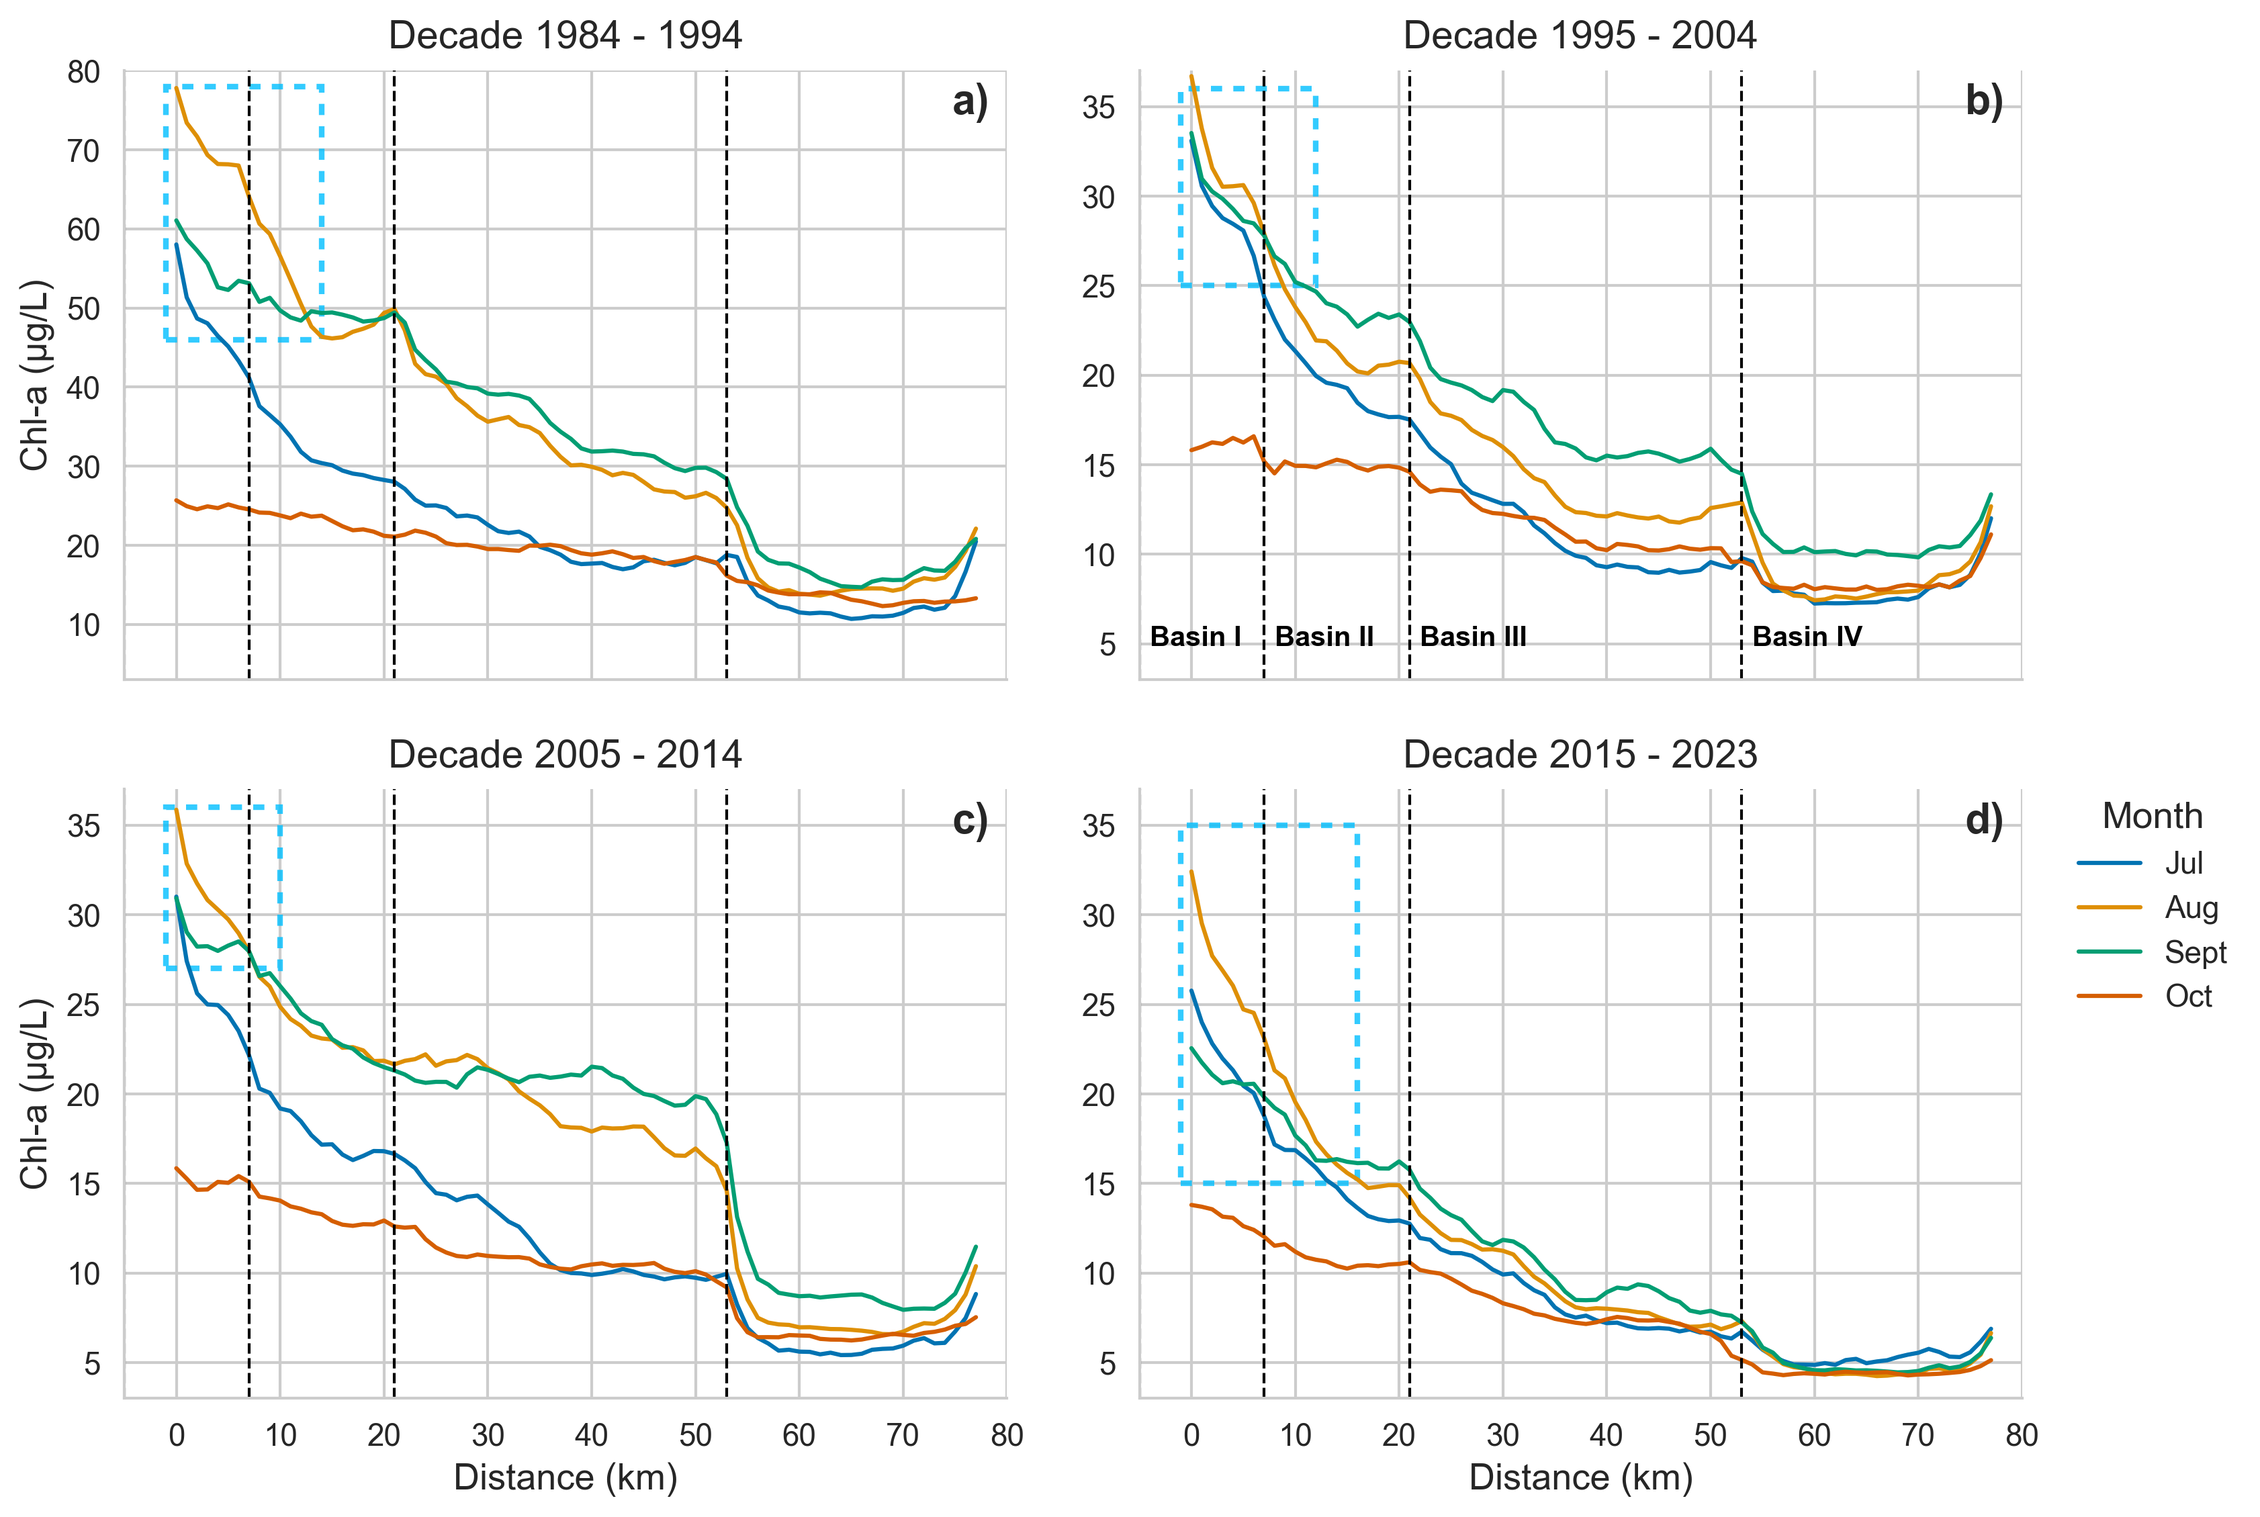
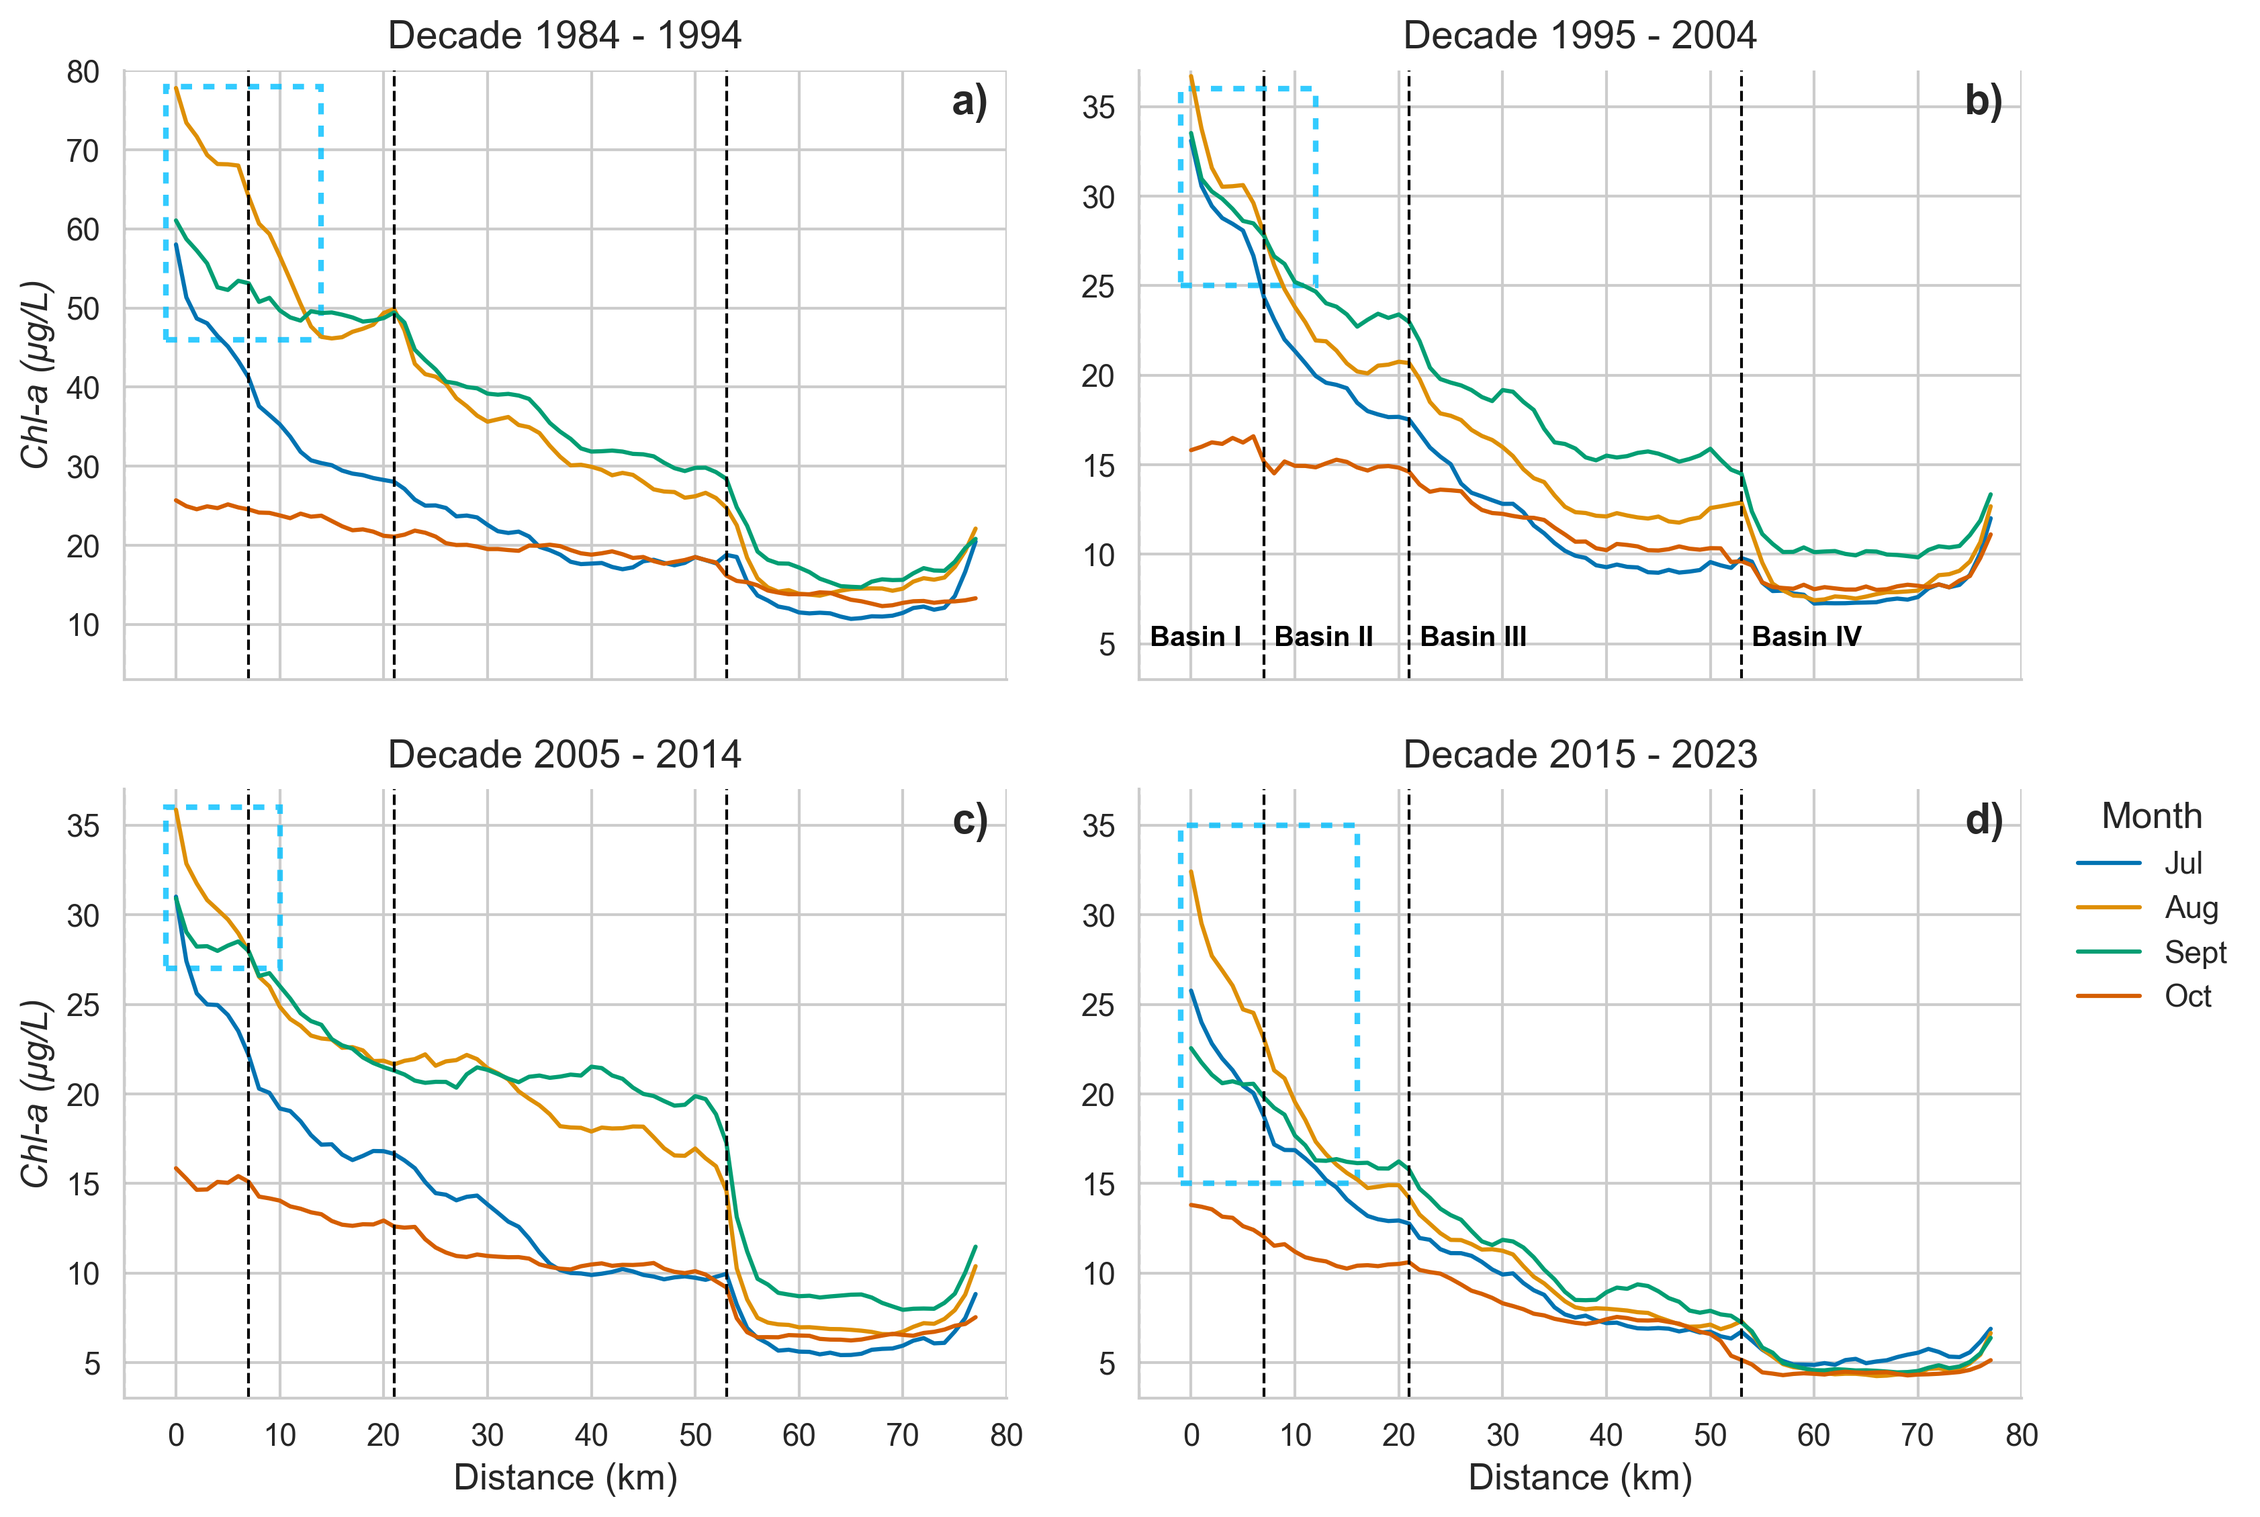
Enhance README.md and scripts: add new single month fitting script, improve figure quality, and refine plotting aesthetics
- Introduce MonthlyCenterlineFitting_singleMonth_Fig5.py for single curve fitting analysis
- Update figure generation settings for higher resolution outputs
- Refine plotting aesthetics in MonthlyCenterlineComparison_Fig3.py and MonthlyCenterlineFitting_FigS4_Fig5.py for better clarity and presentation
- Document new features and improvements in README.md

diff --git a/src/MonthlyCenterlineFitting_singleMonth_Fig5.py b/src/MonthlyCenterlineFitting_singleMonth_Fig5.py
@@ -1,0 +1,179 @@
+"""
+Monthly Centerline Fitting Analysis - Single Plot
+================================================
+
+This script generates a single plot showing curve fitting analysis for chlorophyll-a
+concentration along the centerline of Lake Balaton for a specific decade and month.
+This is used for Figure 5 left subplot in the manuscript.
+
+"""
+
+import pandas as pd
+import matplotlib.pyplot as plt
+import seaborn as sns
+import numpy as np
+from numpy.polynomial.polynomial import Polynomial
+from scipy.optimize import curve_fit
+from sklearn.metrics import r2_score, mean_squared_error
+import os
+
+# Use relative path for data directory
+filePath = os.path.join(os.path.dirname(__file__), "..", "data")
+figuresPath = os.path.join(os.path.dirname(__file__), "..", "figures")
+
+# Create figures directory if it doesn't exist
+os.makedirs(figuresPath, exist_ok=True)
+
+# Read the data
+data = pd.read_csv(os.path.join(filePath, 'Centerline_4decades.csv'))
+
+# ============================================== CONFIGURATION ==============================================
+plt.rcParams['savefig.dpi'] = 300
+
+# Set global font properties for Nature style
+plt.rcParams['font.family'] = 'serif'
+plt.rcParams['font.serif'] = ['Times New Roman']
+plt.rcParams['font.size'] = 18
+plt.rcParams['axes.titlesize'] = 20
+plt.rcParams['axes.labelsize'] = 14
+plt.rcParams['xtick.labelsize'] = 14
+plt.rcParams['ytick.labelsize'] = 14
+plt.rcParams['legend.fontsize'] = 8
+plt.rcParams['axes.linewidth'] = 0.5
+
+# ============================================== DATA PROCESSING ==============================================
+def format_param(value, index=1):
+    """Format parameters with proper sign handling for equations."""
+    if index == 0:
+        return f"{value:.2f}"
+    return f"{value:.2f}" if value < 0 else f"+{value:.2f}"
+
+# Convert 'date' column to datetime and extract year and month for grouping
+data['date'] = pd.to_datetime(data['date'])
+data['year_month'] = data['date'].dt.to_period('M')
+data['year'] = data['date'].dt.year
+data['month'] = data['date'].dt.month
+data = data[data['distance'] <= 52]
+
+# ============================================== FITTING FUNCTIONS ==============================================
+def linear_func(x, a, b):
+    """Linear function: y = ax + b"""
+    return a * x + b
+
+def exponential_func(x, a, b, c):
+    """Exponential function: y = a*exp(-b*x) + c"""
+    return a * np.exp(-b * x) + c
+
+def power_func(x, a, b, c):
+    """Power function: y = a*(x + c)^b"""
+    return a * np.power(x + c, b)
+
+def logarithmic_func(x, a, b):
+    """Logarithmic function: y = a*ln(x+1) + b"""
+    return a * np.log(x + 1) + b
+
+# ============================================== MAIN ANALYSIS ==============================================
+def main():
+    """Main analysis function for single curve fitting plot."""
+    # Define the decade and month for analysis
+    decade_start = 2015  # 2015-2023 decade
+    month = 7  # July
+    
+    # Filter data for the specified decade and month
+    filtered_data = data[(data['year'] >= decade_start) & (data['month'] == month)]
+    
+    x = filtered_data['distance'] + 1
+    y = filtered_data['pelagic']
+    
+    return x, y, decade_start, month
+
+# ============================================== PLOTTING ==============================================
+def create_single_fitting_plot(x, y, decade_start, month):
+    """Create single curve fitting plot."""
+    # Define fitting functions
+    functions = {
+        'Lin': linear_func,
+        'Log': logarithmic_func,  
+        'Poly': None,  # Placeholder for polynomial, handled separately
+        'Exp': exponential_func,
+    }
+    
+    # Define colors for different fits
+    colors = ['#4C72B0', '#55A868', '#B8860B', '#B44E9E'] 
+    
+    # Create the plot
+    plt.figure(figsize=(6, 4))
+    sns.scatterplot(x=x, y=y, color='black', s=30, label='Data Points')
+    
+    annotations = []
+    
+    for i, (label, func) in enumerate(functions.items()):
+        x_vals, y_vals = x, y
+        
+        try:
+            if label == 'Poly':
+                # Polynomial fit separately
+                coeffs = np.polyfit(x, y, 2)
+                xp = np.linspace(x_vals.min(), x_vals.max(), 100)
+                plt.plot(xp, np.polyval(coeffs, xp), color=colors[i], lw=3, label=f'Polynomial Fit (Degree 2)')
+                y_fit = np.polyval(coeffs, x)
+                r2 = r2_score(y, y_fit)
+                rmse = np.sqrt(mean_squared_error(y, y_fit))
+                polynomial_equation = f"${format_param(coeffs[0],0)}x^2 {format_param(coeffs[1])}x {format_param(coeffs[2])}$"
+                annotations.append(f"Poly: {polynomial_equation}, $R^2$={r2:.2f}, RMSE={rmse:.2f}")
+                continue
+            else:
+                initial_params = [0, np.mean(y_vals)]
+            
+            params, _ = curve_fit(func, x_vals, y_vals)
+            xp = np.linspace(x_vals.min(), x_vals.max(), 100)
+            yp = func(xp, *params)
+            plt.plot(xp, yp, color=colors[i], lw=3, label=f'{label} Fit')
+            
+            # Calculate R-squared and RMSE
+            y_fit = func(x_vals, *params)
+            r2 = r2_score(y_vals, y_fit)
+            rmse = np.sqrt(mean_squared_error(y_vals, y_fit))
+            
+            # Format equations with LaTeX and sign handling
+            if label == 'Lin':
+                equation = f"${format_param(params[0],0)}x {format_param(params[1])}$"
+            elif label == 'Power':
+                equation = f"${format_param(params[0],0)}(x {format_param(params[2])})^{{{params[1]:.2f}}}$"
+            elif label == 'Log':
+                equation = f"${format_param(params[0],0)}\\ln(x+1) {format_param(params[1])}$"
+            elif label == 'Exp':
+                equation = f"${format_param(params[0],0)}e^{{{-params[1]:.2f}x}} {format_param(params[2])}$"
+            
+            annotations.append(f"{label}: {equation}, $R^2$={r2:.2f}, RMSE={rmse:.2f}")
+            
+        except RuntimeError as e:
+            print(f"{label} fit failed: {e}")
+    
+    # Annotate equations and metrics on the plot
+    for k, text in enumerate(annotations):
+        plt.text(0.1, 0.97 - k * 0.06, text, transform=plt.gca().transAxes, fontsize=13, 
+                        color=colors[k], ha='left', va='top', fontweight='bold') 
+    
+    # Set labels and title
+    plt.xlabel('Distance to West (km)')
+    plt.ylabel('Chl-a (μg/L)', style='italic')
+    plt.title(f'Fitted July Chl-a for the Decade {decade_start}-2023')
+    plt.legend(loc='lower left', ncol=1, fontsize=12, frameon=False)
+    plt.grid(True, linewidth=1.0, alpha=0.7)
+    
+    plt.tight_layout()
+    
+    # Save the figure
+    figure_path = os.path.join(figuresPath, 'MonthlyCenterlineFitting_Fig5_left.png')
+    plt.savefig(figure_path, dpi=300, bbox_inches='tight', facecolor='white')
+    print(f"Figure saved to: {figure_path}")
+    plt.show()
+
+# ============================================== EXECUTION ==============================================
+if __name__ == "__main__":
+    # Run main analysis
+    x, y, decade_start, month = main()
+    
+    # Create single fitting plot
+    create_single_fitting_plot(x, y, decade_start, month)

diff --git a/src/MonthlyCenterlineFitting_FigS4_Fig5.py b/src/MonthlyCenterlineFitting_FigS4_Fig5.py
@@ -9,6 +9,8 @@ from sklearn.metrics import r2_score, mean_squared_error
 from scipy import stats
 import os
 
+plt.rcParams['savefig.dpi'] = 300
+
 # Use relative path for data directory
 filePath = os.path.join(os.path.dirname(__file__), "..", "data")
 figuresPath = os.path.join(os.path.dirname(__file__), "..", "figures")
@@ -198,7 +200,7 @@ for i, decade in enumerate(decades):
         axes[i, j].tick_params(axis='both', labelsize=12)  
 
 # Shrink the gaps between columns
-plt.subplots_adjust(wspace=0.1, hspace=0.15)
+plt.subplots_adjust(wspace=0, hspace=0.15)
 
 # Save the fitting analysis figure
 plt.savefig(os.path.join(figuresPath, 'MonthlyCenterlineFitting_FigS4.png'), 
@@ -251,9 +253,14 @@ rmse_df = pd.DataFrame(dict([(k, pd.Series(v)) for k, v in rmse_data.items()]))
 fig, (ax1, ax2) = plt.subplots(1, 2, figsize=(8, 5))
 
 # R-squared boxplot
-sns.boxplot(data=r2_df, ax=ax1, palette="Set2")
-ax1.set_title('R²', fontsize=12)
-ax1.grid(True)
+sns.boxplot(data=r2_df, ax=ax1, palette="Set2", linewidth=2)
+ax1.set_title('R²', fontsize=14, fontweight='bold')
+ax1.grid(True, linewidth=1.5)
+ax1.tick_params(axis='both', which='major', length=6, width=2, labelsize=12)
+ax1.spines['bottom'].set_linewidth(2)
+ax1.spines['left'].set_linewidth(2)
+ax1.spines['top'].set_linewidth(2)
+ax1.spines['right'].set_linewidth(2)
 # Add significance asterisks for R² over the upper whisker
 for i in range(len(r2_df.columns)):
     q1 = r2_df.iloc[:, i].quantile(0.25)
@@ -265,12 +272,17 @@ for i in range(len(r2_df.columns)):
     non_outliers = r2_df.iloc[:, i][r2_df.iloc[:, i] <= upper_whisker]
     max_non_outlier = non_outliers.max()
     
-    ax1.text(i, max_non_outlier-0.003, '***', ha='center', va='bottom', fontsize=12)
+    ax1.text(i, max_non_outlier-0.003, '***', ha='center', va='bottom', fontsize=14, fontweight='bold')
 
 # RMSE boxplot
-sns.boxplot(data=rmse_df, ax=ax2, palette="Set2")
-ax2.set_title('RMSE', fontsize=12)
-ax2.grid(True)
+sns.boxplot(data=rmse_df, ax=ax2, palette="Set2", linewidth=2)
+ax2.set_title('RMSE', fontsize=14, fontweight='bold')
+ax2.grid(True, linewidth=1.5)
+ax2.tick_params(axis='both', which='major', length=6, width=2, labelsize=12)
+ax2.spines['bottom'].set_linewidth(2)
+ax2.spines['left'].set_linewidth(2)
+ax2.spines['top'].set_linewidth(2)
+ax2.spines['right'].set_linewidth(2)
 for i in range(len(rmse_df.columns)):
     q1 = rmse_df.iloc[:, i].quantile(0.25)
     q3 = rmse_df.iloc[:, i].quantile(0.75)
@@ -281,7 +293,7 @@ for i in range(len(rmse_df.columns)):
     non_outliers = rmse_df.iloc[:, i][rmse_df.iloc[:, i] <= upper_whisker]
     max_non_outlier = non_outliers.max()
     
-    ax2.text(i, max_non_outlier-0.05, '***', ha='center', va='bottom', fontsize=12)
+    ax2.text(i, max_non_outlier-0.05, '***', ha='center', va='bottom', fontsize=14, fontweight='bold')
 
 # Adjust layout
 plt.tight_layout()

diff --git a/src/MonthlyCenterlineComparison_Fig3.py b/src/MonthlyCenterlineComparison_Fig3.py
@@ -5,7 +5,7 @@ import seaborn as sns
 from scipy import stats
 import os
 from matplotlib.patches import Rectangle
-
+plt.rcParams['savefig.dpi'] = 300
 # Nature-style: clean, minimalist, colorblind-friendly, with balanced font and line sizes
 sns.set_theme(
     style="whitegrid",
@@ -79,7 +79,7 @@ for idx, (year, ax) in enumerate(zip(years_to_plot, axes)):
     if idx > 1:
         ax.set_xlabel('Distance (km)')
     if idx % 2 == 0:
-        ax.set_ylabel('Chl-a (μg/L)')
+        ax.set_ylabel('Chl-a (μg/L)', fontstyle='italic')
     ax.set_xlim(-5, 80)  # Start x from less than 0
     ax.set_ylim(3, 80 if idx == 0 else 37)
     ax.tick_params(axis='both', which='major', length=5, width=1)

diff --git a/README.md b/README.md
@@ -17,6 +17,7 @@ shallow-water-chla/
 │   ├── MonthlyCenterlineComparison_Fig3.py
 │   ├── SpatioTemporalAsynchrony_Fig4.py
 │   ├── MonthlyCenterlineFitting_FigS4_Fig5.py
+│   ├── MonthlyCenterlineFitting_singleMonth_Fig5.py
 │   ├── SouthNorthPelagicRatio_Fig6.py
 │   └── SouthNorthPelagicComparison_Fig7.py
 ├── figures/                  # Generated figures (PNG format)
@@ -64,6 +65,10 @@ Each script in the `src/` directory generates specific figures for the manuscrip
   - Output: `SpatioTemporalAsynchrony_Fig4.png`
 - **MonthlyCenterlineFitting_FigS4_Fig5.py**: Performs curve fitting analysis (Figure 5) and creates boxplots (Figure S4)
   - Output: `MonthlyCenterlineFitting_Fig5.png` and `MonthlyCenterlineFitting_FigS4.png`
+- **MonthlyCenterlineFitting_singleMonth_Fig5.py**: Generates single curve fitting plot for Figure 5 left subplot
+  - **Features**: Modular design with multiple regression models (Linear, Logarithmic, Polynomial, Exponential)
+  - **Methods**: Curve fitting analysis for July 2015-2023 data with R² and RMSE calculations
+  - **Output**: `SingleCurveFitting_Fig5_left.png`
 - **SouthNorthPelagicRatio_Fig6.py**: Analyzes south-north pelagic ratios (Figure 6)
   - Output: `SouthNorthPelagicRatio_Fig6.png`
 - **SouthNorthPelagicComparison_Fig7.py**: Compares south-north pelagic patterns (Figure 7)
@@ -129,6 +134,13 @@ The repository features well-organized, modular code designed for scientific rep
 - **Function-based Architecture**: Each major operation is a separate, testable function
 - **Professional Standards**: Follows Python best practices and scientific coding conventions
 - **Reproducibility**: Clear execution flow with `if __name__ == "__main__":` pattern
+
+### **Single Curve Fitting Script (MonthlyCenterlineFitting_singleMonth_Fig5.py)**
+- **Refactored Design**: Clean, modular structure aligned with project conventions
+- **Multiple Models**: Implements Linear, Logarithmic, Polynomial (degree 2), and Exponential fitting
+- **Statistical Metrics**: Calculates R² and RMSE for model comparison
+- **Professional Output**: High-quality figure generation with proper equation formatting
+- **Project Integration**: Uses consistent file paths, styling, and documentation standards
 
 ## 🤝 Contributing
 
